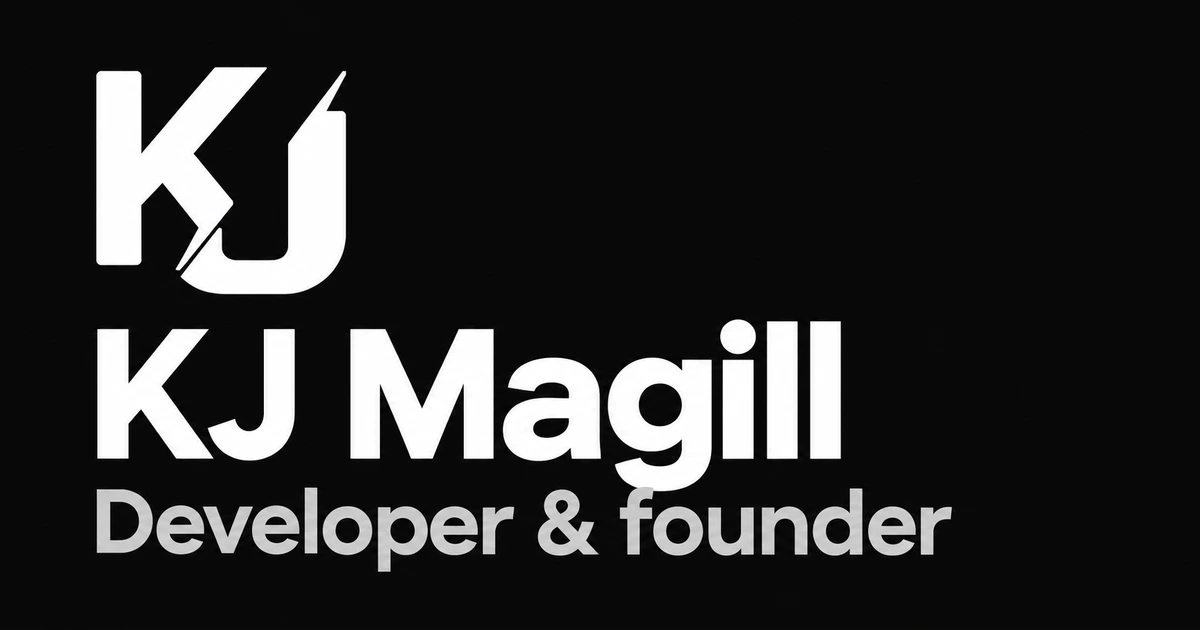
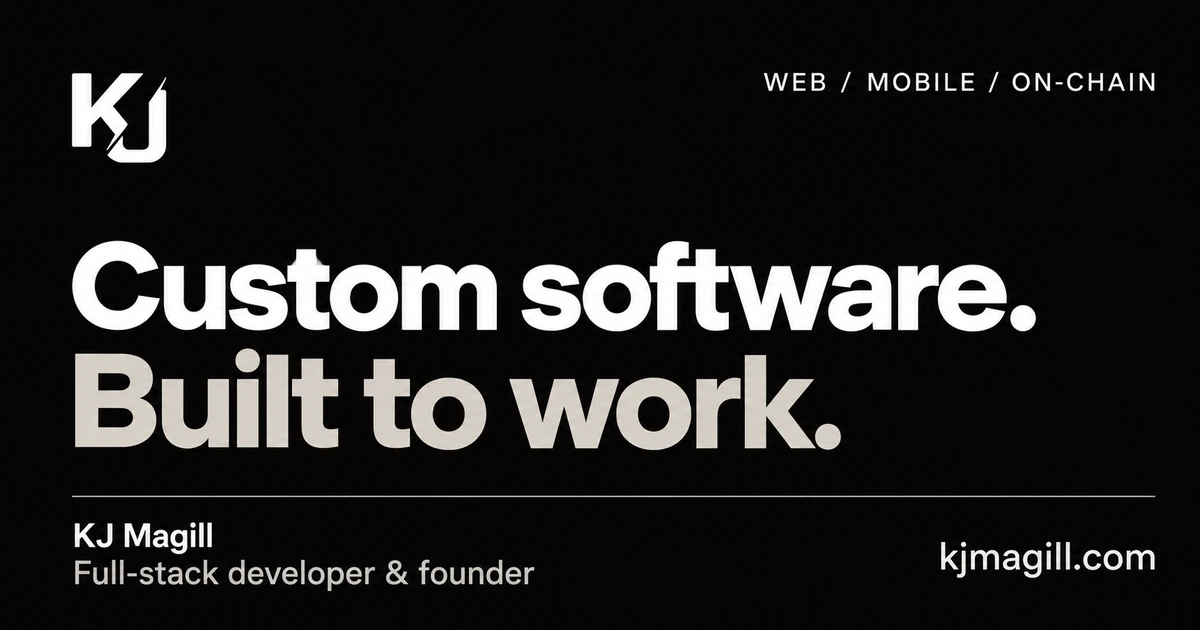
Improve portfolio readability and product-focused copy

Changed region(s): [[0.0617, 0.0905, 0.9867, 0.9349], [0.6167, 0.1206, 0.9867, 0.1508], [0.2775, 0.1206, 0.3083, 0.1508]]

diff --git a/src/app/globals.css b/src/app/globals.css
@@ -24,13 +24,13 @@
   ::selection { background: #ddd; color: #111; }
 }
 .font-heading { font-family: var(--font-geist-sans), Arial, sans-serif; letter-spacing: -.045em; }
-.section-label,.kicker { font-family: var(--font-geist-mono), monospace; color: #a9a9a3; font-size: 10px; line-height: 1.6; letter-spacing: .13em; text-transform: uppercase; }
+.section-label,.kicker { font-family: var(--font-geist-mono), monospace; color: #a9a9a3; font-size: 13px; line-height: 1.6; letter-spacing: .13em; text-transform: uppercase; }
 .site-header { position: sticky; top: 0; z-index: 40; background: #0a0a0aeb; backdrop-filter: blur(18px); border-bottom: 1px solid #242424; }
 .header-inner { max-width: 1152px; padding: 0 32px; margin: auto; height: 90px; display: flex; align-items: center; justify-content: space-between; }
 .brand { display: inline-flex; padding: 6px; margin-left: -6px; }
 .brand img { width: 39px; height: 40px; object-fit: contain; }
 .desktop-nav { display: flex; gap: 34px; margin-left: 88px; }
-.desktop-nav a,.header-contact { font-size: 12px; color: #b5b5b1; transition: color .2s; }
+.desktop-nav a,.header-contact { font-size: 16px; color: #b5b5b1; transition: color .2s; }
 .desktop-nav a:hover,.header-contact:hover { color: white; }
 .header-contact { display: flex; align-items: center; gap: 20px; color: #f5f5f3; border: 1px solid #3d3d3d; padding: 12px 16px; border-radius: 4px; }
 .mobile-menu { display: none; }
@@ -38,30 +38,30 @@
 .mobile-nav a { display: flex; justify-content: space-between; padding: 20px 0; border-bottom: 1px solid #303030; font-size: 22px; }
 .hero { padding-top: 69px; }
 .hero-topline { display: flex; justify-content: space-between; align-items: center; }
-.hero-location { color: #80807c; font-size: 11px; }
-.hero h1 { margin-top: 40px; font-size: clamp(64px, 8.3vw, 112px); font-weight: 500; line-height: 1.04; letter-spacing: -.075em; }
+.hero-location { color: #80807c; font-size: 14px; }
+.hero h1 { margin-top: 40px; font-size: clamp(64px, 7.7vw, 108px); font-weight: 500; line-height: 1.04; letter-spacing: -.065em; }
 .hero h1 span { color: #858581; }
-.hero-bottom { display: flex; align-items: end; justify-content: space-between; gap: 50px; margin-top: 36px; }
-.hero-bottom > p { max-width: 410px; color: #a6a6a0; font-size: 16px; line-height: 1.8; }
-.hero-actions { display: flex; align-items: center; gap: 26px; padding-bottom: 5px; }
-.button-primary { background: #eeeee9; color: #111; padding: 15px 20px; display: inline-flex; justify-content: center; align-items: center; gap: 26px; font-size: 12px; font-weight: 550; border-radius: 4px; transition: background .2s, transform .2s; }
+.hero-bottom { display: flex; align-items: end; justify-content: space-between; gap: 36px; margin-top: 36px; }
+.hero-bottom > p { max-width: 500px; color: #a6a6a0; font-size: 20px; line-height: 1.8; }
+.hero-actions { display: flex; flex-shrink: 0; flex-wrap: wrap; align-items: center; gap: 26px; padding-bottom: 5px; }
+.button-primary { background: #eeeee9; color: #111; padding: 15px 20px; display: inline-flex; justify-content: center; align-items: center; gap: 26px; font-size: 16px; font-weight: 550; border-radius: 4px; transition: background .2s, transform .2s; }
 .button-primary:hover { background: #fff; transform: translateY(-2px); }
-.text-link { display: inline-flex; align-items: center; gap: 12px; font-size: 12px; color: #e5e5df; }
+.text-link { display: inline-flex; align-items: center; gap: 12px; font-size: 16px; color: #e5e5df; }
 .text-link:hover { text-decoration: underline; text-underline-offset: 5px; }
-.hero-footnote { display: flex; justify-content: space-between; margin-top: 65px; padding: 21px 0; border-top: 1px solid #292929; color: #85857f; font-family: var(--font-geist-mono), monospace; font-size: 9px; letter-spacing: .03em; }
+.hero-footnote { display: flex; justify-content: space-between; margin-top: 65px; padding: 21px 0; border-top: 1px solid #292929; color: #85857f; font-family: var(--font-geist-mono), monospace; font-size: 12px; letter-spacing: .03em; }
 .section { padding: 104px 0; scroll-margin-top: 24px; }
 .section-heading { display: flex; align-items: end; justify-content: space-between; gap: 30px; margin-bottom: 42px; }
-h2 { font-size: clamp(30px, 3.5vw, 44px); font-weight: 450; line-height: 1.18; letter-spacing: -.05em; }
+h2 { font-size: clamp(34px, 3.8vw, 50px); font-weight: 450; line-height: 1.18; letter-spacing: -.05em; }
 .section-heading h2 { margin-top: 18px; }
-.section-heading > p { color: #979792; font-size: 12px; line-height: 1.8; }
+.section-heading > p { color: #979792; font-size: 16px; line-height: 1.8; }
 .work-section { padding-top: 77px; }
 .featured-projects { display: grid; grid-template-columns: repeat(3, 1fr); gap: 22px; }
 .project-card { min-width: 0; }
 .project-art { position: relative; aspect-ratio: 1.2; padding: 22px; display: flex; flex-direction: column; justify-content: space-between; overflow: hidden; border: 1px solid #303030; background: #191a19; transition: border-color .25s, transform .25s; }
 .project-art::after { content: ""; position: absolute; width: 220px; height: 220px; border: 1px solid #ffffff08; border-radius: 50%; right: -60px; top: -70px; pointer-events: none; }
-.project-art-label { font-family: var(--font-geist-mono), monospace; font-size: 8px; letter-spacing: .08em; text-transform: uppercase; color: #aaa; }
+.project-art-label { font-family: var(--font-geist-mono), monospace; font-size: 12px; letter-spacing: .08em; text-transform: uppercase; color: #aaa; }
 .project-wordmark { font-size: clamp(30px, 3.4vw, 45px); font-weight: 650; letter-spacing: -.07em; line-height: .97; }
-.project-art-bottom { display: flex; align-items: center; justify-content: space-between; font-size: 9px; color: #aaa; gap: 8px; }
+.project-art-bottom { display: flex; align-items: center; justify-content: space-between; font-size: 12px; color: #aaa; gap: 8px; }
 .project-contrax .project-art { background: #d8d9d2; color: #22231f; }
 .project-contrax .project-art-label,.project-contrax .project-art-bottom { color: #51534b; }
 .project-contrax .project-wordmark { font-weight: 400; letter-spacing: -.09em; font-size: 54px; }
@@ -69,77 +69,106 @@ h2 { font-size: clamp(30px, 3.5vw, 44px); font-weight: 450; line-height: 1.18; l
 .project-care-for-life .project-wordmark { font-size: 49px; font-weight: 450; }
 .project-card:hover .project-art { transform: translateY(-4px); border-color: #8a8a84; }
 .project-info { display: grid; grid-template-columns: 1fr auto; padding: 22px 0 0; align-items: center; }
-.project-index { color: #8f8f88; font-family: var(--font-geist-mono), monospace; font-size: 9px; text-transform: uppercase; letter-spacing: .07em; }
-.project-info h3 { font-size: 18px; letter-spacing: -.03em; margin-top: 6px; }
+.project-index { color: #8f8f88; font-family: var(--font-geist-mono), monospace; font-size: 12px; text-transform: uppercase; letter-spacing: .07em; }
+.project-info h3 { font-size: 24px; letter-spacing: -.03em; margin-top: 6px; }
 .project-info > svg { color: #999; }
-.project-info p { grid-column: 1/-1; color: #999993; font-size: 12px; line-height: 1.8; margin-top: 10px; max-width: 290px; }
+.project-info p { grid-column: 1/-1; color: #999993; font-size: 16px; line-height: 1.8; margin-top: 10px; max-width: none; }
 .more-work-heading { display: flex; justify-content: space-between; align-items: center; margin: 66px 0 20px; }
-.more-work-heading h3 { color: #b5b5ae; font-size: 12px; }
-.project-row { display: grid; grid-template-columns: 1fr 1.6fr 65px 18px; gap: 20px; align-items: center; padding: 24px 0; border-top: 1px solid #292929; transition: background .2s; }
+.more-work-heading h3 { color: #b5b5ae; font-size: 16px; }
+.project-row { display: grid; grid-template-columns: 1fr 1.6fr 80px 24px; gap: 20px; align-items: center; padding: 24px 0; border-top: 1px solid #292929; transition: background .2s; }
 .project-row:last-child { border-bottom: 1px solid #292929; }
 .project-row:hover { background: #141414; }
-.project-row-name { font-size: 14px; letter-spacing: -.02em; }
-.project-row-description { font-size: 11px; color: #94948e; line-height: 1.6; }
-.project-row-kind { color: #92928c; font-size: 10px; }
+.project-row-name { font-size: 18px; letter-spacing: -.02em; }
+.project-row-description { font-size: 14px; color: #94948e; line-height: 1.6; }
+.project-row-kind { color: #92928c; font-size: 13px; }
 .project-row > svg { color: #aaa; }
 .about-section { background: #111111; border-block: 1px solid #252525; }
-.about-grid { display: grid; grid-template-columns: 1fr 1fr; gap: 90px; }
-.about-grid h2 { margin-top: 25px; font-size: clamp(30px,3.4vw,43px); }
+.about-grid { display: grid; grid-template-columns: 1fr 1fr; gap: 64px; }
+.about-grid h2 { margin-top: 25px; font-size: clamp(34px,3.5vw,46px); }
 .muted { color: #8d8d87; }
-.about-signature { margin-top: 55px; font-size: 14px; }
-.about-signature span { display: block; font-size: 10px; color: #888882; margin-top: 7px; }
-.about-copy { color: #a6a6a0; font-size: 13px; line-height: 1.95; }
+.about-signature { margin-top: 55px; font-size: 18px; }
+.about-signature span { display: block; font-size: 13px; color: #888882; margin-top: 7px; }
+.about-copy { color: #a6a6a0; font-size: 17px; line-height: 1.95; }
 .about-copy p + p { margin-top: 20px; }
-.about-copy p:first-child { color: #deded7; font-size: 17px; line-height: 1.65; }
+.about-copy p:first-child { color: #deded7; font-size: 22px; line-height: 1.65; }
 .about-copy p a { color: #eee; text-decoration: underline; text-decoration-color: #666; text-underline-offset: 4px; }
 .about-copy > a { margin-top: 26px; }
 .expertise-section h2 { max-width: 510px; }
-.capabilities { display: grid; grid-template-columns: repeat(3,1fr); gap: 40px; margin-top: 50px; }
-.capabilities article { border-top: 1px solid #41413b; padding-top: 23px; }
-.capability-number { font-family: var(--font-geist-mono),monospace; font-size: 10px; color: #898983; }
-.capabilities h3 { font-size: 18px; letter-spacing: -.03em; margin-top: 30px; }
-.capabilities p { font-size: 12px; color: #989892; line-height: 1.9; margin-top: 14px; }
-.capabilities ul { display: flex; flex-wrap: wrap; gap: 7px; margin-top: 24px; }
-.capabilities li { padding: 5px 8px; border: 1px solid #2d2d2a; border-radius: 3px; font-size: 9px; color: #a8a8a1; }
+.capabilities { display: grid; grid-template-columns: repeat(3,1fr); gap: 30px; margin-top: 50px; }
+.capabilities article { display: flex; flex-direction: column; border-top: 1px solid #41413b; padding-top: 23px; }
+.capability-number { font-family: var(--font-geist-mono),monospace; font-size: 13px; color: #898983; }
+.capabilities h3 { font-size: 24px; letter-spacing: -.03em; margin-top: 30px; }
+.capabilities p { font-size: 16px; color: #989892; line-height: 1.9; margin-top: 14px; }
+.capabilities ul { display: flex; flex-wrap: wrap; gap: 7px; margin-top: auto; padding-top: 24px; }
+.capabilities li { padding: 5px 8px; border: 1px solid #2d2d2a; border-radius: 3px; font-size: 12px; color: #a8a8a1; }
 .cta-section { padding: 95px 0 80px; border-top: 1px solid #292929; }
 .cta-link { display: block; position: relative; font-size: clamp(46px,7vw,88px); line-height: 1.1; letter-spacing: -.065em; margin-top: 30px; }
 .cta-link > svg { position: absolute; right: 0; top: 15px; width: 72px; height: 72px; stroke-width: 1; transition: transform .25s; }
 .cta-link:hover > svg { transform: translate(5px,-5px); }
 .cta-bottom { margin-top: 38px; display: flex; justify-content: space-between; align-items: end; }
-.cta-bottom p { color: #999993; font-size: 12px; line-height: 1.8; }
+.cta-bottom p { color: #999993; font-size: 16px; line-height: 1.8; }
 .site-footer { border-top: 1px solid #292929; padding: 32px 0; }
 .footer-inner { display: flex; align-items: center; gap: 23px; }
-.footer-inner > p { font-size: 10px; color: #afafa8; }
+.footer-inner > p { font-size: 13px; color: #afafa8; }
 .footer-inner > p span { display: block; color: #7f7f79; margin-top: 5px; }
 .footer-inner > ul { margin-left: auto; }
-.back-top { font-size: 10px; color: #aaa; margin-left: 20px; }
+.back-top { font-size: 13px; color: #aaa; margin-left: 20px; }
 .prose-link { color: #e5e5df; text-decoration: underline; text-underline-offset: 4px; }
 .honeypot-field { position: absolute; left: -10000px; width: 1px; height: 1px; overflow: hidden; }
 .contact-layout { display: grid; grid-template-columns: 1fr 1fr; gap: 100px; padding-top: 90px; padding-bottom: 110px; }
 .contact-intro h1 { font-size: clamp(44px,5vw,64px); line-height: 1.1; letter-spacing: -.06em; margin-top: 24px; }
-.contact-intro p:not(.section-label) { color: #aaa; font-size: 14px; line-height: 1.9; margin-top: 24px; }
+.contact-intro p:not(.section-label) { color: #aaa; font-size: 18px; line-height: 1.9; margin-top: 24px; }
 .contact-intro .text-link { margin-top: 24px; }
 .contact-panel { min-width: 0; }
 .contact-form { display: grid; gap: 24px; }
-.contact-form label { font-size: 12px; }
-.contact-form input:not([type=hidden]),.contact-form textarea { width: 100%; padding: 13px; background: #111; border: 1px solid #414141; border-radius: 4px; font: inherit; font-size: 14px; }
+.contact-form label { font-size: 16px; }
+.contact-form input:not([type=hidden]),.contact-form textarea { width: 100%; padding: 13px; background: #111; border: 1px solid #414141; border-radius: 4px; font: inherit; font-size: 18px; }
 .contact-form textarea { resize: vertical; min-height: 150px; }
 .contact-form button { min-height: 46px; }
 @media (min-width: 1500px) { .hero { padding-top: 90px; } .hero-footnote { margin-top: 80px; } }
 @media (max-width: 767px) {
-.header-inner { height: 76px; padding: 0 20px; }.desktop-nav { display: none; }.header-contact { margin-left: auto; margin-right: 12px; font-size: 11px; padding: 10px 12px; }.mobile-menu { display: inline-flex; }.brand img { width: 32px; height: 33px; }
-.hero { padding-top: 42px; }.hero-location { display: none; }.hero h1 { font-size: clamp(59px,11.8vw,86px); margin-top: 30px; }.hero-bottom { align-items: start; flex-direction: column; gap: 26px; margin-top: 28px; }.hero-bottom > p { font-size: 14px; max-width: 365px; }.hero-footnote { margin-top: 42px; font-size: 8px; }.hero-footnote span:last-child { display: none; }
-.section { padding: 66px 0; }.section-heading { align-items: start; flex-direction: column; gap: 18px; margin-bottom: 30px; }.section-heading h2 { margin-top: 15px; }.featured-projects { grid-template-columns: 1fr; gap: 38px; }.project-art { aspect-ratio: 1.45; padding: 25px; }.project-wordmark { font-size: 48px; }.project-art-label { font-size: 9px; }.project-art-bottom { font-size: 10px; }.project-info { padding-top: 18px; }.project-info p { max-width: none; }.more-work-heading { margin-top: 48px; }.project-row { grid-template-columns: 1fr 18px; gap: 9px; padding: 20px 0; }.project-row-description { grid-column: 1; grid-row: 2; }.project-row-kind { display: none; }.project-row > svg { grid-column: 2; grid-row: 1; }
-.about-grid { grid-template-columns: 1fr; gap: 35px; }.about-signature { margin-top: 26px; }.about-copy { font-size: 14px; }.capabilities { grid-template-columns: 1fr; gap: 34px; margin-top: 32px; }.capabilities h3 { margin-top: 18px; }.capabilities p { font-size: 13px; }.capabilities li { font-size: 10px; }
-.cta-section { padding: 65px 0 55px; }.cta-link { font-size: clamp(42px,8vw,60px); padding-right: 24px; }.cta-link > svg { width: 36px; height: 36px; top: 0; right: -5px; }.cta-bottom { gap: 25px; align-items: start; flex-direction: column; }.footer-inner { gap: 16px; flex-wrap: wrap; }.footer-inner > ul { margin-left: auto; }.back-top { display: none; }.footer-inner > p { font-size: 9px; }
+.header-inner { height: 76px; padding: 0 20px; }.desktop-nav { display: none; }.header-contact { margin-left: auto; margin-right: 12px; font-size: 14px; padding: 10px 12px; }.mobile-menu { display: inline-flex; }.brand img { width: 32px; height: 33px; }
+.hero { padding-top: 42px; }.hero-location { display: none; }.hero h1 { font-size: clamp(35px,10.5vw,76px); margin-top: 30px; }.hero-bottom { align-items: start; flex-direction: column; gap: 26px; margin-top: 28px; }.hero-bottom > p { font-size: 18px; max-width: 365px; }.hero-footnote { margin-top: 42px; font-size: 12px; }.hero-footnote span:last-child { display: none; }
+.section { padding: 66px 0; }.section-heading { align-items: start; flex-direction: column; gap: 18px; margin-bottom: 30px; }.section-heading h2 { margin-top: 15px; }.featured-projects { grid-template-columns: 1fr; gap: 38px; }.project-art { aspect-ratio: 1.45; padding: 25px; }.project-wordmark { font-size: 48px; }.project-art-label { font-size: 12px; }.project-art-bottom { font-size: 13px; }.project-info { padding-top: 18px; }.project-info p { max-width: none; }.more-work-heading { margin-top: 48px; }.project-row { grid-template-columns: 1fr 18px; gap: 9px; padding: 20px 0; }.project-row-description { grid-column: 1; grid-row: 2; }.project-row-kind { display: none; }.project-row > svg { grid-column: 2; grid-row: 1; }
+.about-grid { grid-template-columns: 1fr; gap: 35px; }.about-signature { margin-top: 26px; }.about-copy { font-size: 18px; }.capabilities { grid-template-columns: 1fr; gap: 34px; margin-top: 32px; }.capabilities h3 { margin-top: 18px; }.capabilities p { font-size: 17px; }.capabilities li { font-size: 13px; }
+.cta-section { padding: 65px 0 55px; }.cta-link { font-size: clamp(42px,8vw,60px); padding-right: 24px; }.cta-link > svg { width: 36px; height: 36px; top: 0; right: -5px; }.cta-bottom { gap: 25px; align-items: start; flex-direction: column; }.footer-inner { gap: 16px; flex-wrap: wrap; }.footer-inner > ul { margin-left: auto; }.back-top { display: none; }.footer-inner > p { font-size: 12px; }
 .contact-layout { grid-template-columns: 1fr; gap: 45px; padding-top: 50px; padding-bottom: 65px; }
 }
 @media (prefers-reduced-motion: reduce) { html { scroll-behavior: auto; } *,*::before,*::after { animation-duration: .01ms !important; animation-iteration-count: 1 !important; transition-duration: .01ms !important; } }
 .contact-page { flex: 1; }
 .contact-fields { display: grid; grid-template-columns: 1fr 1fr; gap: 18px; }
 .contact-field { display: grid; gap: 10px; }
-.form-message,.form-hint { font-size: 12px; line-height: 1.8; }
+.form-message,.form-hint { font-size: 16px; line-height: 1.8; }
 .form-error { color: #ffaaa3; }.form-success { color: #d8e8d0; }.form-hint { color: #a6a6a0; }
 .contact-submit { width: 100%; border-radius: 4px; }
 @media (max-width: 400px) { .contact-fields { grid-template-columns: 1fr; } }
 .contact-form input:not([type=hidden]) { min-height: 46px; }
+
+/* Comfortable controls and consistent icon scale. */
+.header-contact > svg,.text-link > svg,.button-primary > svg { width: 20px; height: 20px; flex-shrink: 0; }
+.project-info > svg,.project-row > svg { width: 24px; height: 24px; }
+.brand img { width: 46px; height: 47px; }
+.desktop-nav a { padding-block: 14px; }
+.footer-inner { flex-wrap: wrap; row-gap: 24px; }
+.footer-inner > p span { color: #a0a09a; }
+@media (min-width: 768px) and (max-width: 1023px) {
+  .hero-bottom { align-items: start; flex-direction: column; }
+  .featured-projects { gap: 18px; }
+  .project-art { padding: 16px; }
+  .project-art-label { font-size: 11px; }
+  .project-art-bottom { font-size: 11px; }
+  .capabilities { gap: 24px; }
+  .capabilities h3 { font-size: 21px; }
+}
+@media (max-width: 767px) {
+  .brand img { width: 38px; height: 39px; }
+  .header-contact { font-size: 14px; }
+  .hero-actions { gap: 22px; }
+  .hero-bottom > p { max-width: 520px; font-size: 18px; }
+  .project-row { grid-template-columns: 1fr 24px; }
+  .project-row-name { font-size: 20px; }
+  .project-row-description { font-size: 16px; }
+  .footer-inner > p { font-size: 14px; }
+  .footer-inner > ul { width: 100%; margin-left: 0; }
+  .contact-form input:not([type=hidden]),.contact-form textarea { font-size: 16px; }
+}

diff --git a/src/lib/projects.ts b/src/lib/projects.ts
@@ -12,7 +12,8 @@ export const projects: Project[] = [
   {
     slug: "compbook",
     name: "Compbook",
-    blurb: "Digital sports-card comps and market estimates.",
+    blurb:
+      "Sports-card collectors compare recent sales to estimate card values and follow the market.",
     href: "https://usecompbook.com",
     image: "/images/projects/compbook.webp",
     kind: "Product",
@@ -21,7 +22,8 @@ export const projects: Project[] = [
   {
     slug: "contrax",
     name: "Contrax dApp",
-    blurb: "Auto-compounding vaults and DeFi tools on Arbitrum.",
+    blurb:
+      "A DeFi app for exploring Arbitrum protocols and using auto-compounding yield vaults.",
     href: "https://github.com/Contrax-co/contrax-dapp",
     image: "/images/projects/contrax.webp",
     kind: "Protocol",
@@ -30,7 +32,7 @@ export const projects: Project[] = [
     slug: "care-for-life",
     name: "Care For Life",
     blurb:
-      "Offline-first Android app for nonprofit field operations in Africa.",
+      "Offline-first Android tools help nonprofit field teams coordinate programs in low-connectivity areas.",
     href: "https://github.com/kjmagill/care-for-life-fe",
     image: "/images/projects/care-for-life.webp",
     kind: "App",
@@ -39,7 +41,7 @@ export const projects: Project[] = [
     slug: "cantocurb",
     name: "CanToCurb",
     blurb:
-      "Redesign and online scheduling for a local trash & recycling valet service.",
+      "Trash and recycling bin valet service for homes in Cape May County.",
     href: "https://www.cantocurb.com",
     image: "/images/projects/cantocurb.webp",
     kind: "Studio",
@@ -47,7 +49,8 @@ export const projects: Project[] = [
   {
     slug: "back-bay",
     name: "Back Bay Rentals",
-    blurb: "Online booking and scheduling for local LSV rentals.",
+    blurb:
+      "Street-legal golf cart rentals with pickup and delivery across Cape May County.",
     href: "https://www.backbaybuggies.com",
     image: "/images/projects/backbay.webp",
     kind: "Studio",
@@ -55,7 +58,8 @@ export const projects: Project[] = [
   {
     slug: "golden-paver",
     name: "Golden Paver",
-    blurb: "Local service-business marketing website and lead capture.",
+    blurb:
+      "Paver cleaning, polymeric sanding, sealing, and restoration across South Jersey.",
     href: "https://www.goldenpaver.com",
     image: "/images/projects/golden-paver.webp",
     kind: "Studio",
@@ -63,7 +67,8 @@ export const projects: Project[] = [
   {
     slug: "hornless",
     name: "HornlessHorseAI",
-    blurb: "An AI platform built around radical transparency.",
+    blurb:
+      "An AI platform built around radical transparency.",
     href: "https://hornlesshorse.com",
     image: "/images/projects/hornless.webp",
     kind: "Product",
@@ -71,7 +76,8 @@ export const projects: Project[] = [
   {
     slug: "tmc",
     name: "Tom Magill Construction",
-    blurb: "Marketing site for a custom home builder and remodeler.",
+    blurb:
+      "Custom home building, additions, and remodeling in Cape May County, New Jersey.",
     href: "https://www.tommagillconstruction.com",
     image: "/images/projects/tmc.webp",
     kind: "Studio",
@@ -79,7 +85,8 @@ export const projects: Project[] = [
   {
     slug: "todesko",
     name: "Todesko Bookkeeping",
-    blurb: "A clear, professional web presence for a bookkeeping studio.",
+    blurb:
+      "Bookkeeping, QuickBooks setup, payroll, and financial reporting for small businesses.",
     href: "https://todeskobookkeeping.com",
     image: "/images/projects/todesko.webp",
     kind: "Studio",

diff --git a/src/components/social-links.tsx b/src/components/social-links.tsx
@@ -22,7 +22,7 @@ export function SocialLinks({ className }: { className?: string }) {
                 : "noopener noreferrer"
             }
             aria-label={item.label}
-            className="inline-flex size-10 items-center justify-center rounded-full text-muted-foreground transition-colors hover:bg-secondary hover:text-sand"
+            className="inline-flex size-12 items-center justify-center rounded-full text-muted-foreground transition-colors hover:bg-secondary hover:text-sand"
           >
             <item.icon />
           </a>
@@ -34,7 +34,7 @@ export function SocialLinks({ className }: { className?: string }) {
 
 function GitHubIcon() {
   return (
-    <svg viewBox="0 0 24 24" className="size-4" fill="currentColor" aria-hidden>
+    <svg viewBox="0 0 24 24" className="size-5" fill="currentColor" aria-hidden>
       <path d="M12 2C6.477 2 2 6.484 2 12.017c0 4.425 2.865 8.18 6.839 9.504.5.092.682-.217.682-.483 0-.237-.008-.868-.013-1.703-2.782.605-3.369-1.343-3.369-1.343-.454-1.158-1.11-1.466-1.11-1.466-.908-.62.069-.608.069-.608 1.003.07 1.531 1.032 1.531 1.032.892 1.53 2.341 1.088 2.91.832.092-.647.35-1.088.636-1.338-2.22-.253-4.555-1.113-4.555-4.951 0-1.093.39-1.988 1.029-2.688-.103-.253-.446-1.272.098-2.65 0 0 .84-.27 2.75 1.026A9.564 9.564 0 0 1 12 6.844a9.56 9.56 0 0 1 2.504.337c1.909-1.296 2.747-1.027 2.747-1.027.546 1.379.202 2.398.1 2.651.64.7 1.028 1.595 1.028 2.688 0 3.848-2.339 4.695-4.566 4.943.359.309.678.92.678 1.855 0 1.338-.012 2.419-.012 2.747 0 .268.18.58.688.482A10.02 10.02 0 0 0 22 12.017C22 6.484 17.522 2 12 2Z" />
     </svg>
   );
@@ -42,7 +42,7 @@ function GitHubIcon() {
 
 function XIcon() {
   return (
-    <svg viewBox="0 0 24 24" className="size-3.5" fill="currentColor" aria-hidden>
+    <svg viewBox="0 0 24 24" className="size-5" fill="currentColor" aria-hidden>
       <path d="M18.244 2.25h3.308l-7.227 8.26 8.502 11.24H16.17l-4.714-6.231-5.401 6.231H2.744l7.727-8.835L1.254 2.25H8.08l4.253 5.622L18.244 2.25Zm-1.161 17.52h1.833L7.084 4.126H5.117z" />
     </svg>
   );
@@ -50,7 +50,7 @@ function XIcon() {
 
 function LinkedInIcon() {
   return (
-    <svg viewBox="0 0 24 24" className="size-4" fill="currentColor" aria-hidden>
+    <svg viewBox="0 0 24 24" className="size-5" fill="currentColor" aria-hidden>
       <path d="M20.447 20.452h-3.554v-5.569c0-1.328-.027-3.037-1.852-3.037-1.853 0-2.136 1.445-2.136 2.939v5.667H9.351V9h3.414v1.561h.046c.477-.9 1.637-1.85 3.37-1.85 3.601 0 4.267 2.37 4.267 5.455v6.286zM5.337 7.433a2.062 2.062 0 0 1-2.063-2.065 2.064 2.064 0 1 1 2.063 2.065zm1.782 13.019H3.555V9h3.564v11.452zM22.225 0H1.771C.792 0 0 .774 0 1.729v20.542C0 23.227.792 24 1.771 24h20.451C23.2 24 24 23.227 24 22.271V1.729C24 .774 23.2 0 22.222 0h.003z" />
     </svg>
   );
@@ -60,7 +60,7 @@ function MailIcon() {
   return (
     <svg
       viewBox="0 0 24 24"
-      className="size-4"
+      className="size-5"
       fill="none"
       stroke="currentColor"
       strokeWidth="1.8"

diff --git a/src/components/about.tsx b/src/components/about.tsx
@@ -4,6 +4,6 @@ import { ArrowUpRight } from "lucide-react";
 export function About() {
   return <section id="about" className="section about-section"><Container><div className="about-grid">
     <div><p className="section-label">02 / A little context</p><h2>A developer’s craft.<br /><span className="muted">A founder’s mindset.</span></h2><p className="about-signature">KJ Magill <span>Based in New Jersey. Building beyond it.</span></p></div>
-    <div className="about-copy"><p>I’m KJ, a full-stack developer who enjoys taking an idea all the way to something people can use.</p><p>I founded Flowstate Labs and <a href={links.capeMayWebDesign} target="_blank" rel="noopener noreferrer">Cape May Web Design</a>, and co-founded <a href={links.contrax} target="_blank" rel="noopener noreferrer">Contrax</a>, a DeFi protocol on Arbitrum. My work spans fintech, ecommerce, mobile apps, and the businesses in my own community.</p><p>I care about maintainable code, considered interfaces, and understanding the business behind the build. I’ve worked across remote, freelance, and founding teams — taking responsibility for both the details and the bigger picture.</p><p>Away from the keyboard: the gym, a basketball court, or somewhere I haven’t been before.</p><a className="text-link" href={links.linkedin} target="_blank" rel="noopener noreferrer">Connect on LinkedIn <ArrowUpRight size={16} aria-hidden="true" /></a></div>
+    <div className="about-copy"><p>I’m KJ, a full-stack developer who enjoys taking an idea all the way to something people can use.</p><p>I founded Flowstate Labs and <a href={links.capeMayWebDesign} target="_blank" rel="noopener noreferrer">Cape May Web Design</a>, and co-founded <a href={links.contrax} target="_blank" rel="noopener noreferrer">Contrax</a>, a DeFi protocol on Arbitrum. My work spans fintech, ecommerce, mobile apps, and the businesses in my own community.</p><p>I care about maintainable code, intuitive interfaces, and understanding the business behind the build. I’ve worked across remote, freelance, and founding teams — taking responsibility for both the details and the bigger picture.</p><p>Away from the keyboard: the gym, a basketball court, or somewhere I haven’t been before.</p><a className="text-link" href={links.linkedin} target="_blank" rel="noopener noreferrer">Connect on LinkedIn <ArrowUpRight size={16} aria-hidden="true" /></a></div>
   </div></Container></section>;
 }

diff --git a/src/components/practice.tsx b/src/components/practice.tsx
@@ -2,6 +2,6 @@ import { Container } from "@/components/container";
 const capabilities = [
   { number: "01", title: "Interfaces that feel right.", text: "Responsive websites and mobile experiences with a focus on clarity, performance, and the people using them.", stack: ["React", "Next.js", "React Native", "TypeScript"] },
   { number: "02", title: "Solid beneath the surface.", text: "APIs, databases, and smart contracts that turn a polished interface into a useful, working product.", stack: ["Node.js", "Python", "SQL", "Solidity", "Rust"] },
-  { number: "03", title: "Ownership from day one.", text: "A hands-on partner from the first conversation through launch, bringing technical decisions and business goals together.", stack: ["Product thinking", "Technical leadership", "Collaboration"] },
+  { number: "03", title: "Ownership from day one.", text: "A hands-on partner from idea to launch, aligning technical decisions with the goals of your business.", stack: ["Product thinking", "Technical leadership", "Collaboration"] },
 ];
 export function Practice() { return <section id="expertise" className="section expertise-section"><Container><div className="section-heading"><div><p className="section-label">03 / What I bring</p><h2>Built with the whole picture in mind.</h2></div></div><div className="capabilities">{capabilities.map(item => <article key={item.number}><span className="capability-number">/{item.number}</span><h3>{item.title}</h3><p>{item.text}</p><ul>{item.stack.map(tech => <li key={tech}>{tech}</li>)}</ul></article>)}</div></Container></section>; }

diff --git a/src/components/hero.tsx b/src/components/hero.tsx
@@ -8,10 +8,10 @@ export function Hero() {
     <section className="hero" aria-labelledby="hero-title">
       <Container>
         <div className="hero-topline"><p className="section-label">KJ Magill / Developer & founder</p><span className="hero-location">Cape May, New Jersey</span></div>
-        <h1 id="hero-title">Good ideas.<br /><span>Built to work.</span></h1>
+        <h1 id="hero-title">Custom software.<br /><span>Built to work.</span></h1>
         <div className="hero-bottom">
           <p>I build thoughtful software for real-world problems. From a business’s first website to products that work in the field and on-chain.</p>
-          <div className="hero-actions"><Link className="button-primary" href={links.work}>Explore my work <ArrowDown size={17} aria-hidden="true" /></Link><Link className="text-link" href={links.contact}>Let’s talk <ArrowUpRight size={17} aria-hidden="true" /></Link></div>
+          <div className="hero-actions"><Link className="button-primary" href={links.work}>Explore my work <ArrowDown size={17} aria-hidden="true" /></Link><Link className="text-link" href={links.contact}>Start a Project <ArrowUpRight size={17} aria-hidden="true" /></Link></div>
         </div>
         <div className="hero-footnote"><span>Independent thinking. End-to-end building.</span><span>Web / Mobile / On-chain</span></div>
       </Container>

diff --git a/src/components/site-footer.tsx b/src/components/site-footer.tsx
@@ -2,4 +2,4 @@ import Image from "next/image";
 import Link from "next/link";
 import { Container } from "@/components/container";
 import { SocialLinks } from "@/components/social-links";
-export function SiteFooter() { return <footer className="site-footer"><Container><div className="footer-inner"><Link href="/" aria-label="KJ Magill — home"><Image src="/images/kj-logo.png" alt="KJ" width={30} height={31} /></Link><p>© {new Date().getFullYear()} KJ Magill<span>Always building. Always learning.</span></p><SocialLinks /><a href="#main" className="back-top">Back to top ↑</a></div></Container></footer>; }
+export function SiteFooter() { return <footer className="site-footer"><Container><div className="footer-inner"><Link href="/" aria-label="KJ Magill — home"><Image src="/images/kj-logo.png" alt="KJ" width={44} height={45} /></Link><p>© {new Date().getFullYear()} KJ Magill<span>Always building. Always learning.</span></p><SocialLinks /><a href="#main" className="back-top">Back to top ↑</a></div></Container></footer>; }

diff --git a/src/app/layout.tsx b/src/app/layout.tsx
@@ -47,7 +47,7 @@ export const metadata: Metadata = {
     description: site.description,
     images: [
       {
-        url: "/images/og-2026.jpg",
+        url: "/images/og-custom-software.jpg",
         width: 1200,
         height: 630,
         alt: "KJ Magill — Full-stack developer and founder",
@@ -59,10 +59,11 @@ export const metadata: Metadata = {
     creator: "@kjmagill",
     title: site.title,
     description: site.description,
-    images: [{ url: "/images/social-2026.jpg", width: 1200, height: 600, alt: "KJ Magill — Developer & founder" }],
+    images: [{ url: "/images/social-custom-software.jpg", width: 1200, height: 600, alt: "KJ Magill — Custom software. Built to work." }],
   },
   icons: {
     icon: [
+      { url: "/icons/favicon-48.png?v=white-2", sizes: "48x48", type: "image/png" },
       { url: "/icons/favicon-32.png?v=white-2", sizes: "32x32", type: "image/png" },
       { url: "/icons/favicon-16.png?v=white-2", sizes: "16x16", type: "image/png" },
     ],

diff --git a/scripts/social-preview-brief.md b/scripts/social-preview-brief.md
@@ -10,3 +10,7 @@ Exports:
 - `public/images/og.webp`: replacement for the existing legacy URL.
 
 Favicon variants are generated deterministically from the supplied logo with `node scripts/generate-icons.mjs`. They use a white mark and charcoal keyline. The Apple touch icon has an opaque light background; browser and manifest PNGs have transparency. Both ICO files contain 16px, 32px, and 48px representations.
+
+## Current revision
+
+Restore the first card composition with the headline “Custom software. Built to work.” Increase all supporting typography approximately 50%, retaining the KJ logo, category line, divider, name, role, and domain. Generated using the built-in image-generation tool from the original card reference. Current metadata points to `og-custom-software.jpg` (1200×630) and `social-custom-software.jpg` (1200×600); earlier asset URLs are also updated for compatibility.
